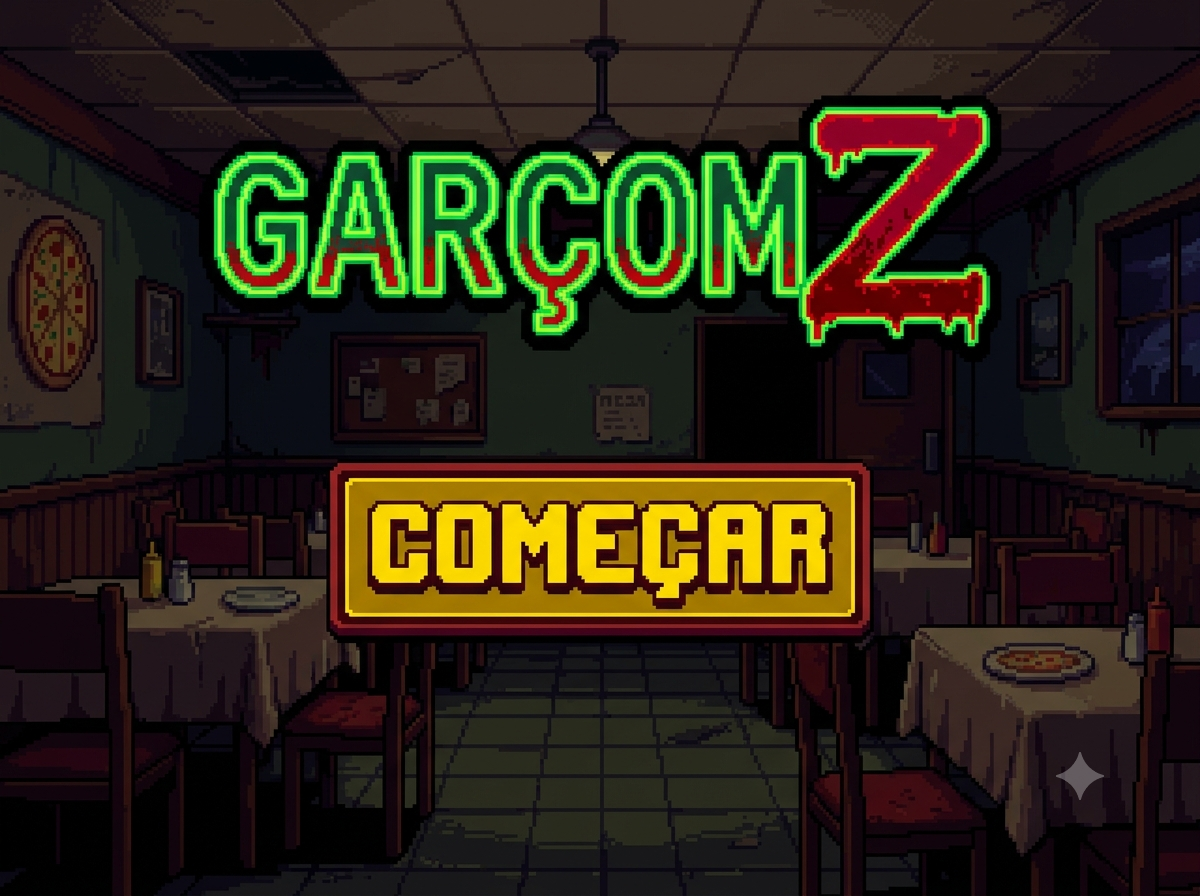
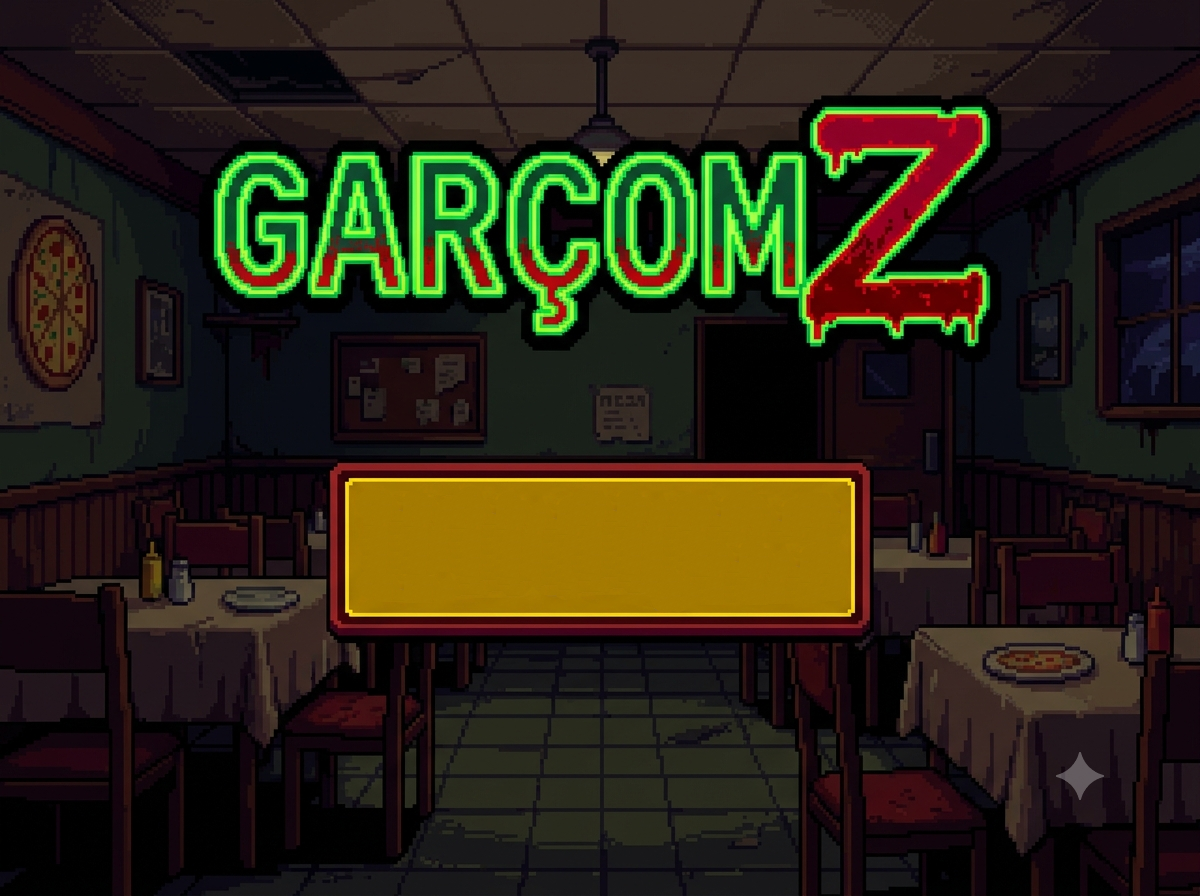
initial commit

Changed region(s): [[0.2775, 0.5312, 0.7092, 0.6875]]

diff --git a/code/Menu.py b/code/Menu.py
@@ -1,4 +1,8 @@
 import pygame
+from pygame import Surface, Rect
+from pygame.ftfont import Font
+
+from code.Const import WIN_WIDTH, WIN_HEIGHT
 
 
 class Menu:
@@ -13,7 +17,14 @@ class Menu:
         pygame.mixer_music.load('./asset/MusicaMenu.mp3')
         pygame.mixer_music.play(-1)  # parametro -1 e para que musica não pare
         while True:
+
             self.window.blit(source=self.surf, dest=self.rect)
+            self.menu_text(
+                text_size=130,
+                text="COMEÇAR",
+                text_color=(247, 201, 0),
+                text_center_pos=(WIN_WIDTH // 2, 550)
+            )
             pygame.display.flip()
 
             # check all event
@@ -21,3 +32,28 @@ class Menu:
                  if event.type == pygame.QUIT:
                     pygame.quit() #close screen
                     quit() #end pygame
+
+
+    # def menu_text(self, text_size: int, text: str, text_color: tuple, text_center_pos: tuple) -> None:
+    #     text_font: Font = pygame.font.SysFont(name="Lucida Sans Typewriter", size=text_size)
+    #     text_surf: Surface = text_font.render(text, True, text_color).convert_alpha()
+    #     text_rect: Rect = text_surf.get_rect(center=text_center_pos)
+    #     self.window.blit(source=text_surf, dest=text_rect)
+
+    def menu_text(self, text_size: int, text: str, text_color: tuple, text_center_pos: tuple) -> None:
+        # 1. Definimos a fonte (Você pode manter a Lucida Sans ou usar uma mais pixelada)
+        text_font: Font = pygame.font.SysFont(name="Lucida Sans Typewriter", size=text_size)
+
+        # 2. Cor da sombra (Marrom escuro idêntico ao da imagem)
+        shadow_color: tuple = (87, 0, 0)
+
+        # 3. Renderiza e desenha a SOMBRA (deslocada 3 pixels para a direita e para baixo)
+        shadow_surf: Surface = text_font.render(text, True, shadow_color).convert_alpha()
+        shadow_center_pos: tuple = (text_center_pos[0] + 3, text_center_pos[1] + 3)
+        shadow_rect: Rect = shadow_surf.get_rect(center=shadow_center_pos)
+        self.window.blit(source=shadow_surf, dest=shadow_rect)
+
+        # 4. Renderiza e desenha o TEXTO PRINCIPAL (por cima da sombra)
+        text_surf: Surface = text_font.render(text, True, text_color).convert_alpha()
+        text_rect: Rect = text_surf.get_rect(center=text_center_pos)
+        self.window.blit(source=text_surf, dest=text_rect)
